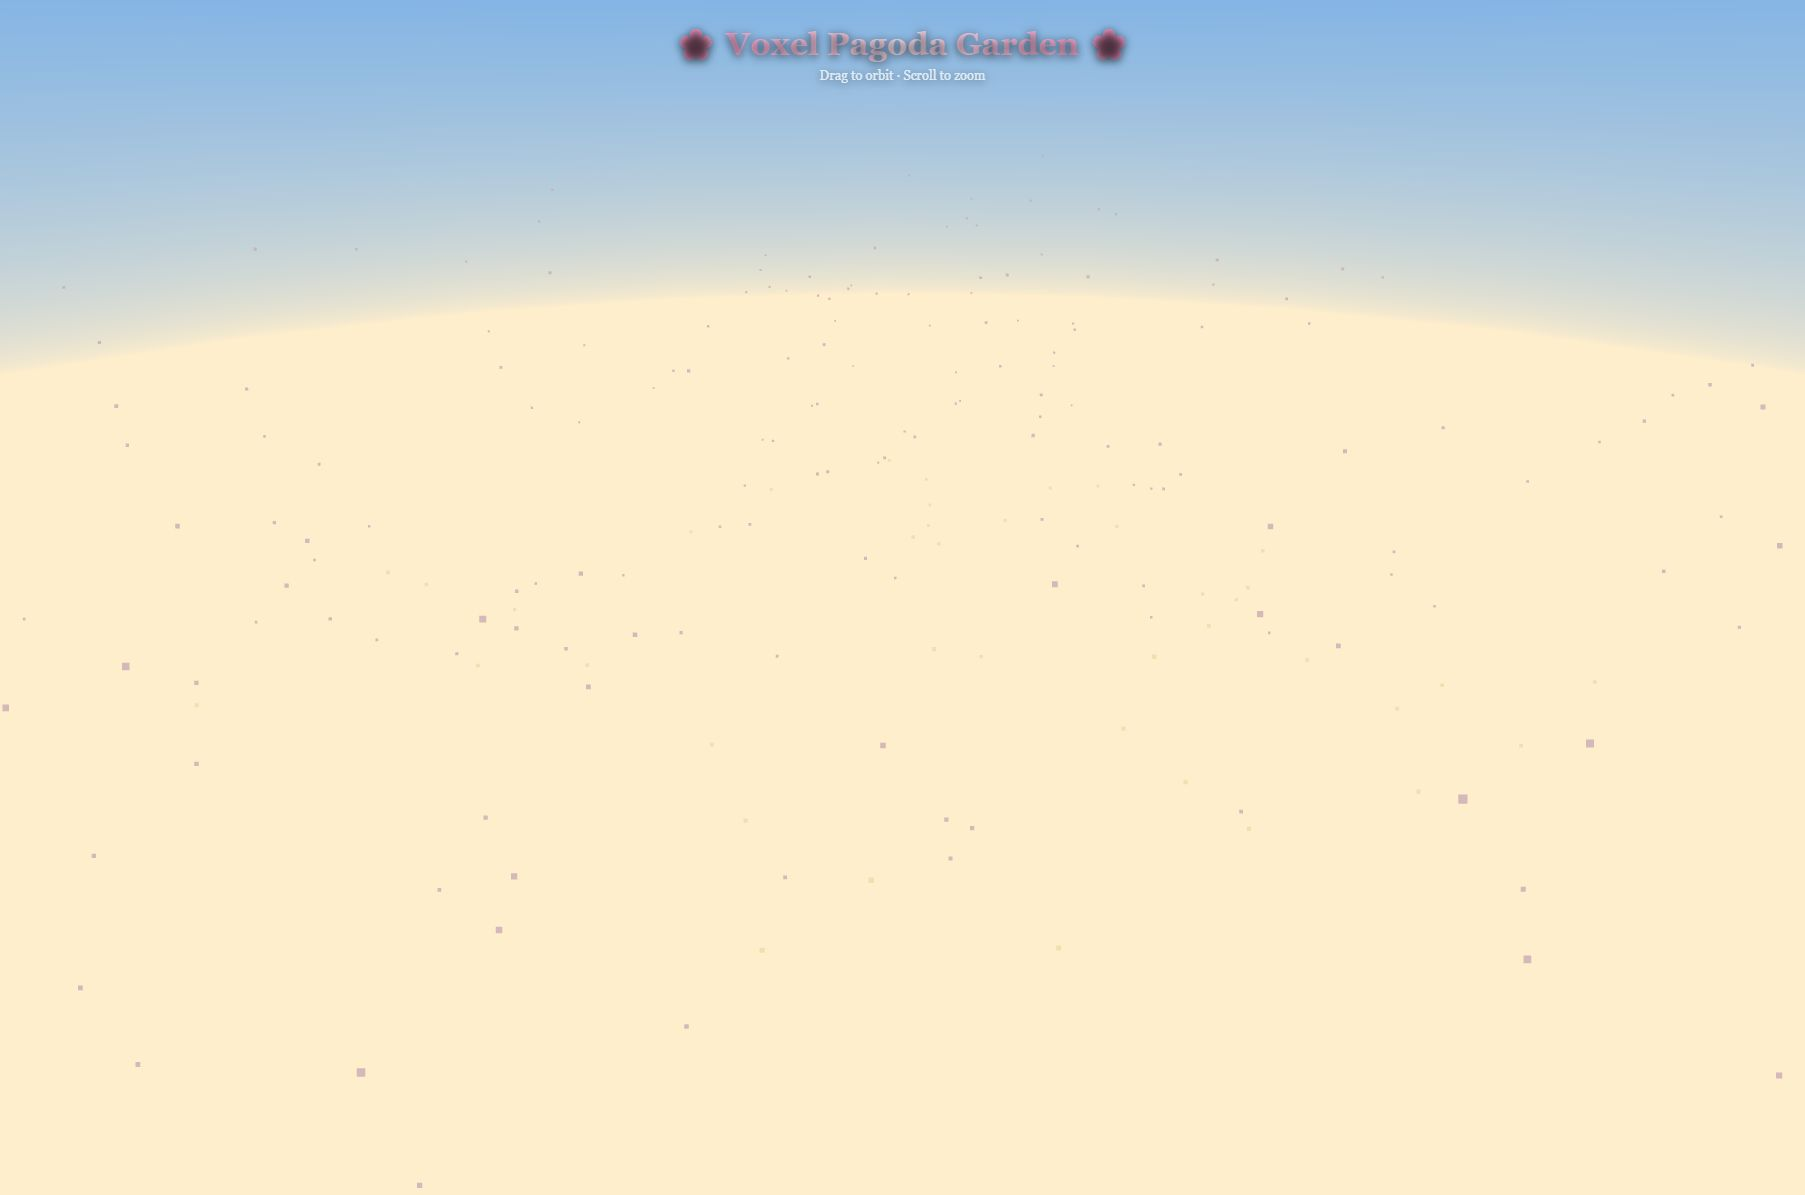
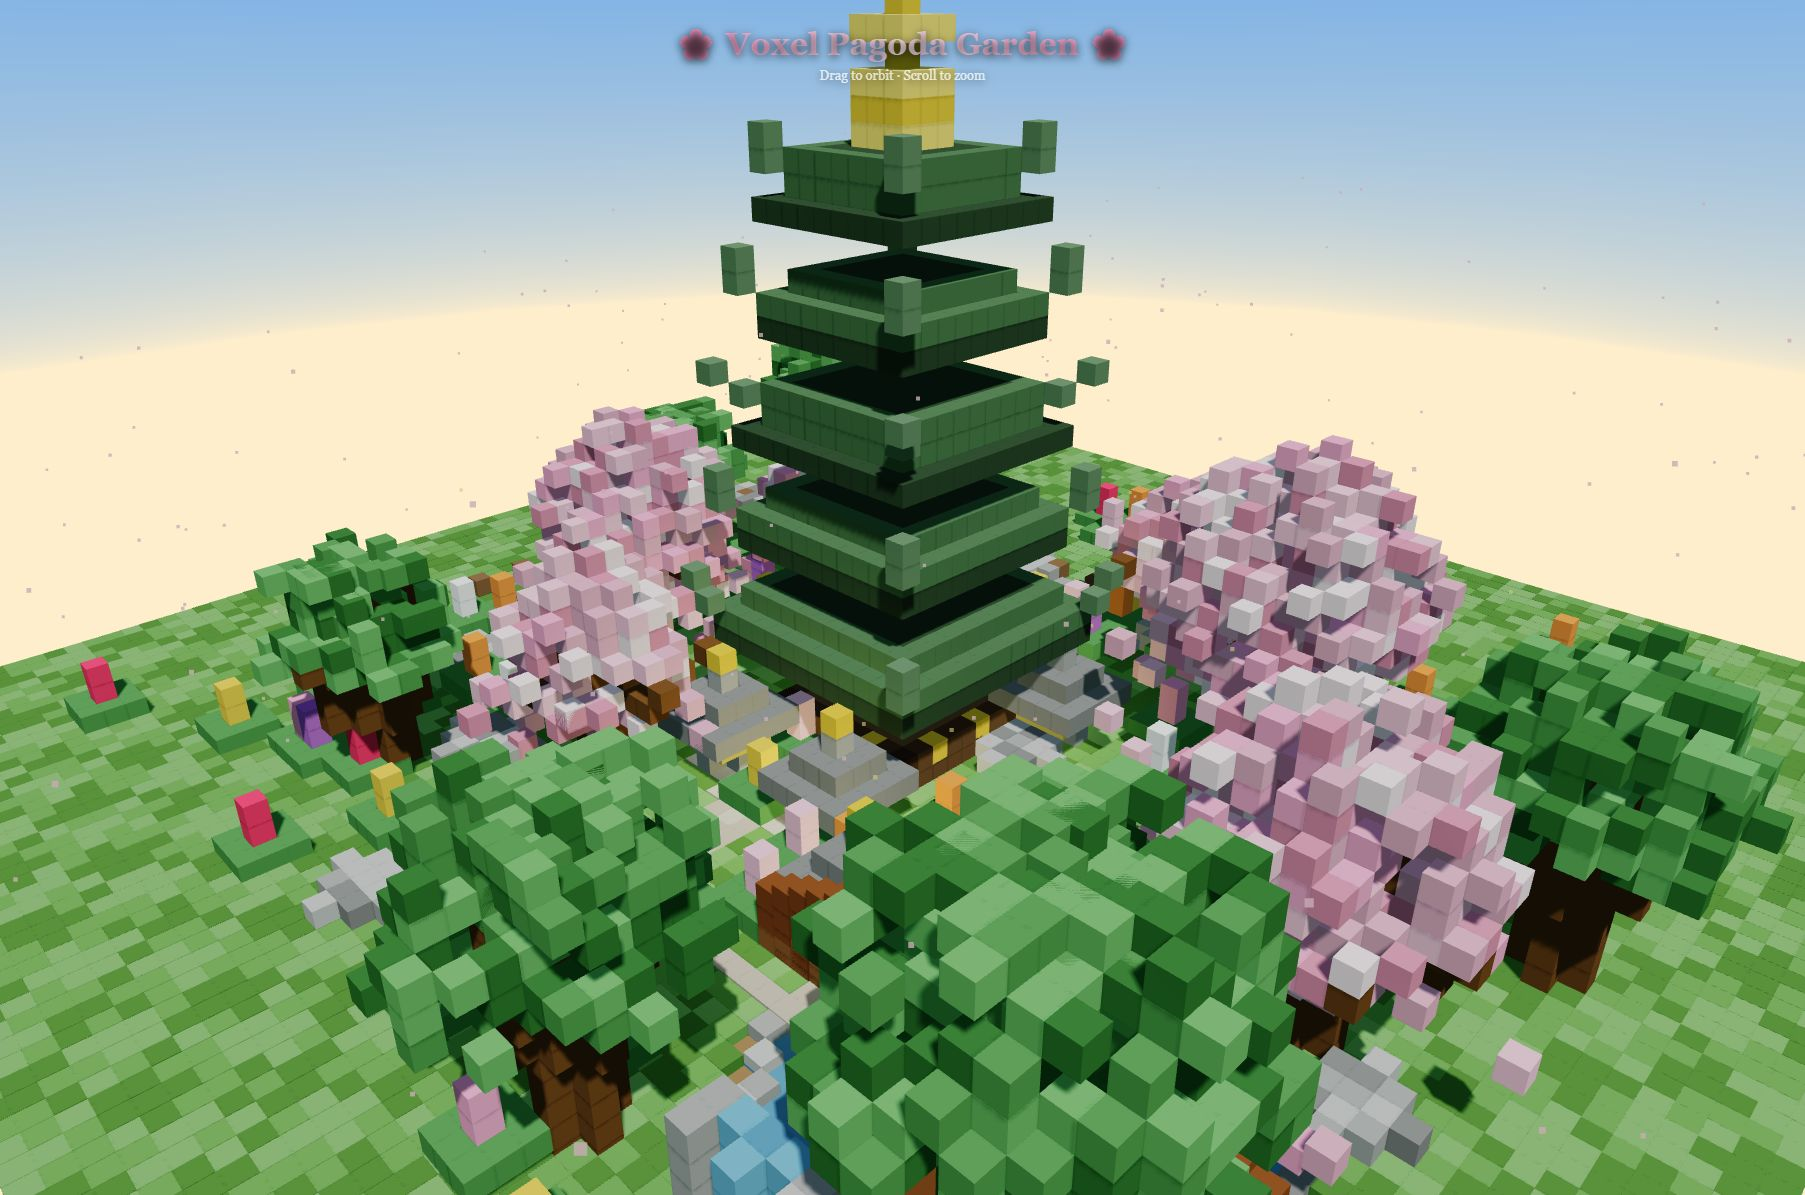
Refresh repaired Deepwen pagoda preview

diff --git a/pixeltest/index.html b/pixeltest/index.html
@@ -256,12 +256,12 @@
     <section class="grid" aria-label="Published pixel tests">
       <article class="card">
         <a class="thumb" href="/pixeltest/deepwen-36-q5-moq/" aria-label="Open Deepwen 3.6 Q5 MoQ local Dunamis pagoda garden">
-          <img src="/pixeltest/assets/deepwen-36-q5-moq-dunamis.png" alt="Pastel-blue voxel garden sky with falling cherry-blossom particles from the Deepwen pagoda scene">
+          <img src="/pixeltest/assets/deepwen-36-q5-moq-dunamis.png" alt="Colorful green voxel pagoda surrounded by cherry blossom trees, paths, lanterns, and a garden pond">
         </a>
         <div class="body">
           <span class="tag">Deepwen 3.6 Q5 MoQ · Local Dunamis</span>
           <h2>Deepwen 3.6 · Q5 MoQ</h2>
-          <p class="model">Local Dunamis server · unmodified output; garden geometry is not visible in the captured live render.</p>
+          <p class="model">Local Dunamis server · repaired instanced-voxel geometry render</p>
           <div class="actions">
             <a class="button primary" href="/pixeltest/deepwen-36-q5-moq/">Open test</a>
           </div>
